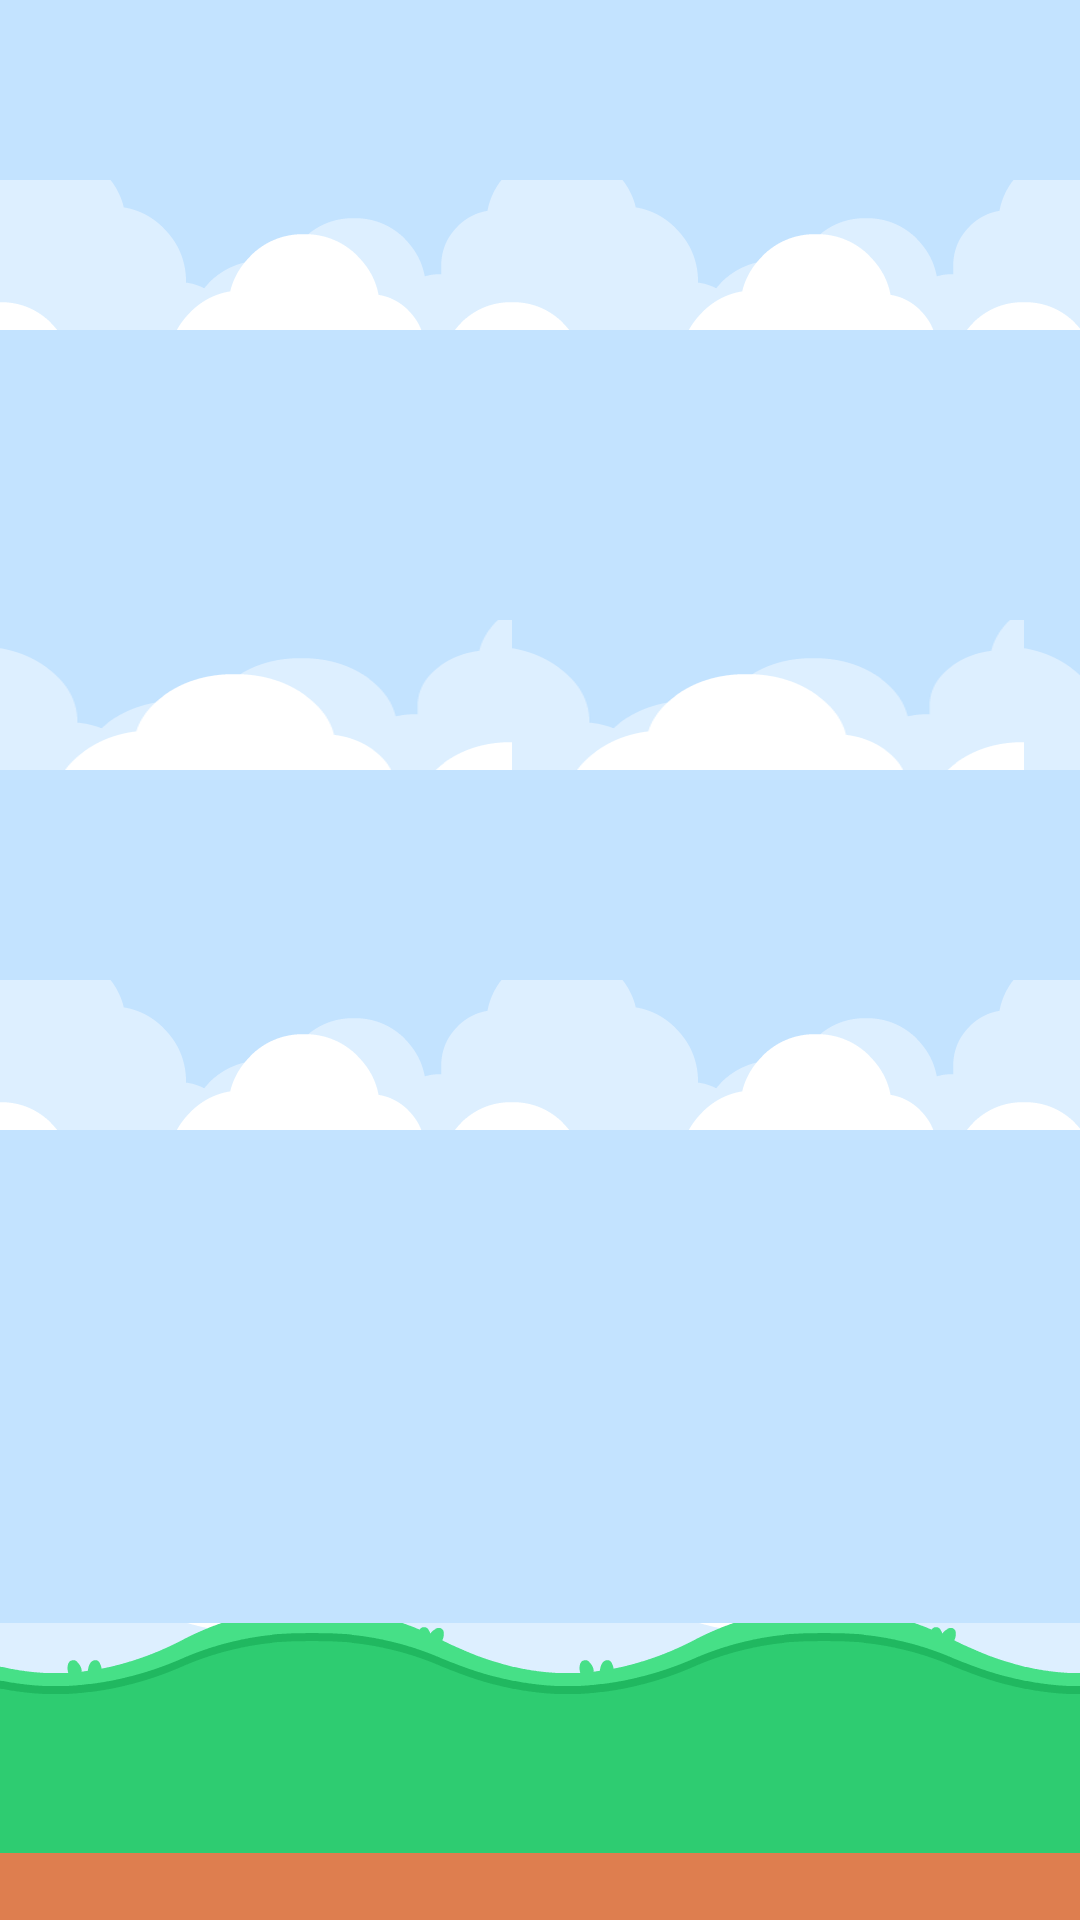
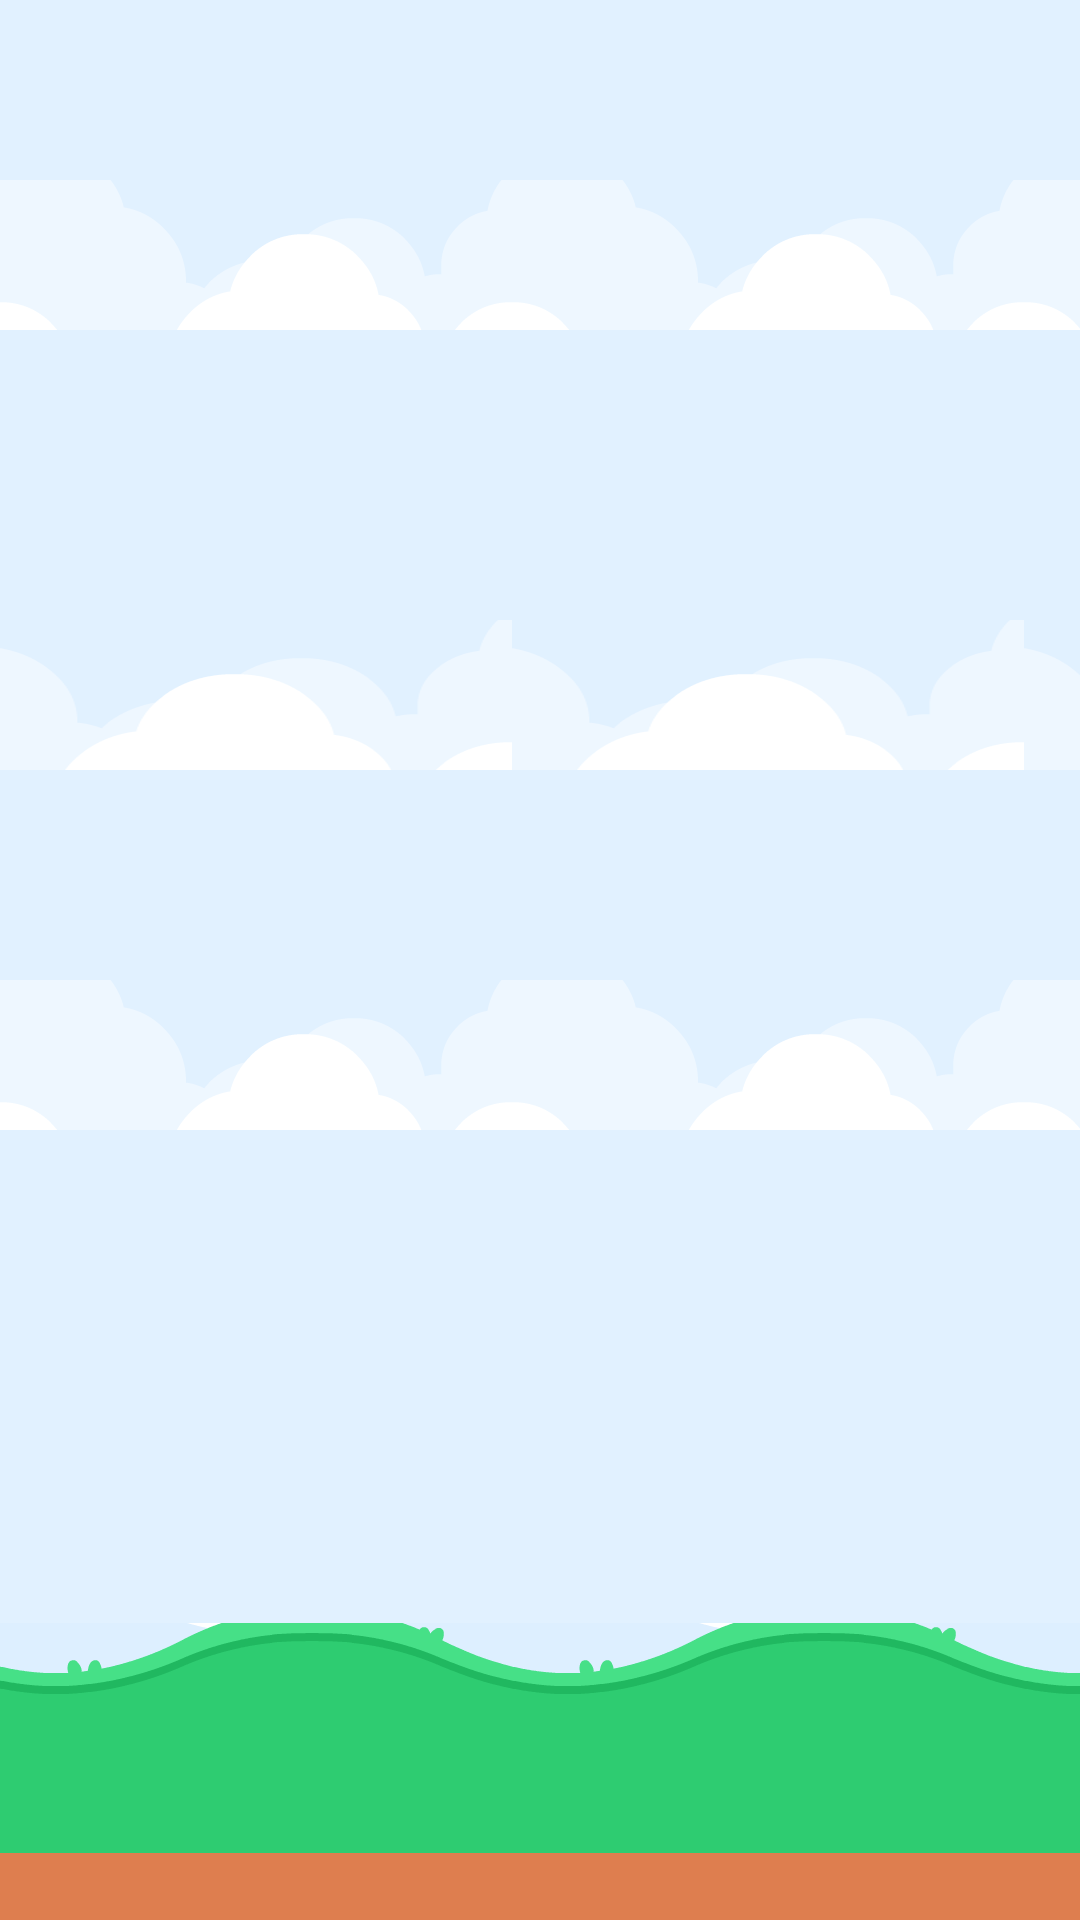
Make candies pop and remove shop panel frame
- Lighten the gameplay sky so pastel candies stand out
- Remove translucent background "decor" candies that looked like ghost candies
- Add drop shadow + bigger radius to every candy for contrast
- Remove the enclosing panel image from the shop (illustrated items stay)

Generated with Codebuff 🤖

diff --git a/src/screens/gameplay-screen.js b/src/screens/gameplay-screen.js
@@ -43,7 +43,6 @@ class GameplayScreen extends BaseScreen {
     this.freezeT = 0;
 
     this.candies = [];
-    this.decor = [];
     this.particles = [];
     this.popups = [];
     this.chain = [];
@@ -145,7 +144,6 @@ class GameplayScreen extends BaseScreen {
     this.onResize = () => this.resize();
     window.addEventListener('resize', this.onResize);
     this.bindInput();
-    this.initDecor();
 
     if (this.game.resumeRun && this.game.run) {
       this.restoreRun(this.game.run);
@@ -253,7 +251,7 @@ class GameplayScreen extends BaseScreen {
   /* ---------- geometry ---------- */
 
   radius() {
-    return Math.max(16, Math.min(34, Math.min(this.w, this.h) * 0.045));
+    return Math.max(18, Math.min(40, Math.min(this.w, this.h) * 0.055));
   }
 
   hudTop() {
@@ -362,25 +360,6 @@ class GameplayScreen extends BaseScreen {
     return colors[Math.floor(Math.random() * colors.length)];
   }
 
-  /* decor background candies */
-  initDecor() {
-    if (this.decor.length) return;
-    const colors = this.game.config.candy.colors;
-    for (let i = 0; i < 12; i += 1) {
-      this.decor.push({
-        x: Math.random() * this.w,
-        y: Math.random() * this.h,
-        vx: (Math.random() - 0.5) * 18,
-        vy: (Math.random() - 0.5) * 12,
-        rot: Math.random() * 6,
-        vr: (Math.random() - 0.5) * 0.5,
-        r: this.radius() * (0.5 + Math.random() * 0.7),
-        color: colors[Math.floor(Math.random() * colors.length)],
-        alpha: 0.1 + Math.random() * 0.08
-      });
-    }
-  }
-
   /* ---------- run state ---------- */
 
   serializeRun() {
@@ -482,12 +461,6 @@ class GameplayScreen extends BaseScreen {
 
     const sf = this.speedFactor();
     this.candies.forEach((c) => this.updateCandy(c, dt, sf));
-    this.decor.forEach((d) => {
-      d.x += d.vx * dt;
-      d.y += d.vy * dt;
-      d.rot += d.vr * dt;
-      this.wrapDecor(d);
-    });
 
     this.particles = this.particles.filter((p) => this.updateParticle(p, dt));
     this.popups = this.popups.filter((p) => {
@@ -514,13 +487,6 @@ class GameplayScreen extends BaseScreen {
     if (c.y > bottom - pad) { c.y = bottom - pad; c.vy = -Math.abs(c.vy); }
   }
 
-  wrapDecor(d) {
-    if (d.x < -d.r) d.x = this.w + d.r;
-    if (d.x > this.w + d.r) d.x = -d.r;
-    if (d.y < -d.r) d.y = this.h + d.r;
-    if (d.y > this.h + d.r) d.y = -d.r;
-  }
-
   updateParticle(p, dt) {
     p.t = (p.t || 0) + dt;
     if (p.kind === 'burst') {
@@ -543,25 +509,10 @@ class GameplayScreen extends BaseScreen {
     if (this.shake > 0) {
       ctx.translate((Math.random() - 0.5) * this.shake, (Math.random() - 0.5) * this.shake);
     }
-    this.drawDecor(ctx);
     this.drawChainLine(ctx);
     this.candies.forEach((c) => this.drawCandy(ctx, c));
     this.drawParticles(ctx);
     this.drawPopups(ctx);
-  }
-
-  drawDecor(ctx) {
-    this.decor.forEach((d) => {
-      const img = this.imgs[d.color];
-      if (!img || !img.complete) return;
-      ctx.save();
-      ctx.globalAlpha = d.alpha;
-      ctx.translate(d.x, d.y);
-      ctx.rotate(d.rot);
-      ctx.drawImage(img, -d.r, -d.r, d.r * 2, d.r * 2);
-      ctx.restore();
-    });
-    ctx.globalAlpha = 1;
   }
 
   drawChainLine(ctx) {
@@ -593,9 +544,13 @@ class GameplayScreen extends BaseScreen {
     ctx.save();
     ctx.translate(c.x, c.y);
     ctx.rotate(c.rot);
+    ctx.shadowColor = 'rgba(30, 15, 0, 0.45)';
+    ctx.shadowBlur = 10;
+    ctx.shadowOffsetY = 4;
     if (c.locked) {
       ctx.shadowColor = this.colorHex(c);
-      ctx.shadowBlur = 20;
+      ctx.shadowBlur = 22;
+      ctx.shadowOffsetY = 0;
     }
     ctx.drawImage(img, -r * 1.1, -r, r * 2.2, r * 2);
     ctx.restore();

diff --git a/src/screens/shop-screen.js b/src/screens/shop-screen.js
@@ -13,14 +13,13 @@ class ShopScreen extends BaseScreen {
     this.el.className = 'screen shop-screen';
     this.el.style.backgroundImage = `url("${this.game.config.backgrounds.menu}")`;
 
-    const panel = new Panel({ image: 'assets/ui/f.png' });
-    panel.add(
-      this.titleEl('SHOP'),
-      this.coinsEl(),
-      this.itemsEl(items),
-      this.backButton()
-    );
-    this.el.appendChild(panel.el);
+    const content = document.createElement('div');
+    content.className = 'shop-content';
+    content.appendChild(this.titleEl('SHOP'));
+    content.appendChild(this.coinsEl());
+    content.appendChild(this.itemsEl(items));
+    content.appendChild(this.backButton().el);
+    this.el.appendChild(content);
 
     this.onKeyDown((event) => {
       if (event.code === 'Escape') this.game.show('menu');

diff --git a/assets/css/screen.css b/assets/css/screen.css
@@ -496,11 +496,6 @@ body {
   font-size: clamp(10px, 2.4vw, 13px);
 }
 
-.shop-screen .panel-content {
-  max-height: 85vh;
-  overflow-y: auto;
-}
-
 /* ============================================================
    PAUSE SCREEN
    ============================================================ */
@@ -588,9 +583,16 @@ body {
    SHOP SCREEN (optional)
    ============================================================ */
 
-.shop-screen .panel {
-  width: min(88vw, 440px);
-  background-size: 100% 100%;
+.shop-content {
+  display: flex;
+  flex-direction: column;
+  align-items: center;
+  gap: clamp(8px, 2vw, 14px);
+  width: min(88vw, 460px);
+  max-height: 88vh;
+  overflow-y: auto;
+  padding: clamp(10px, 3vw, 18px);
+  text-align: center;
 }
 
 .shop-coins {
